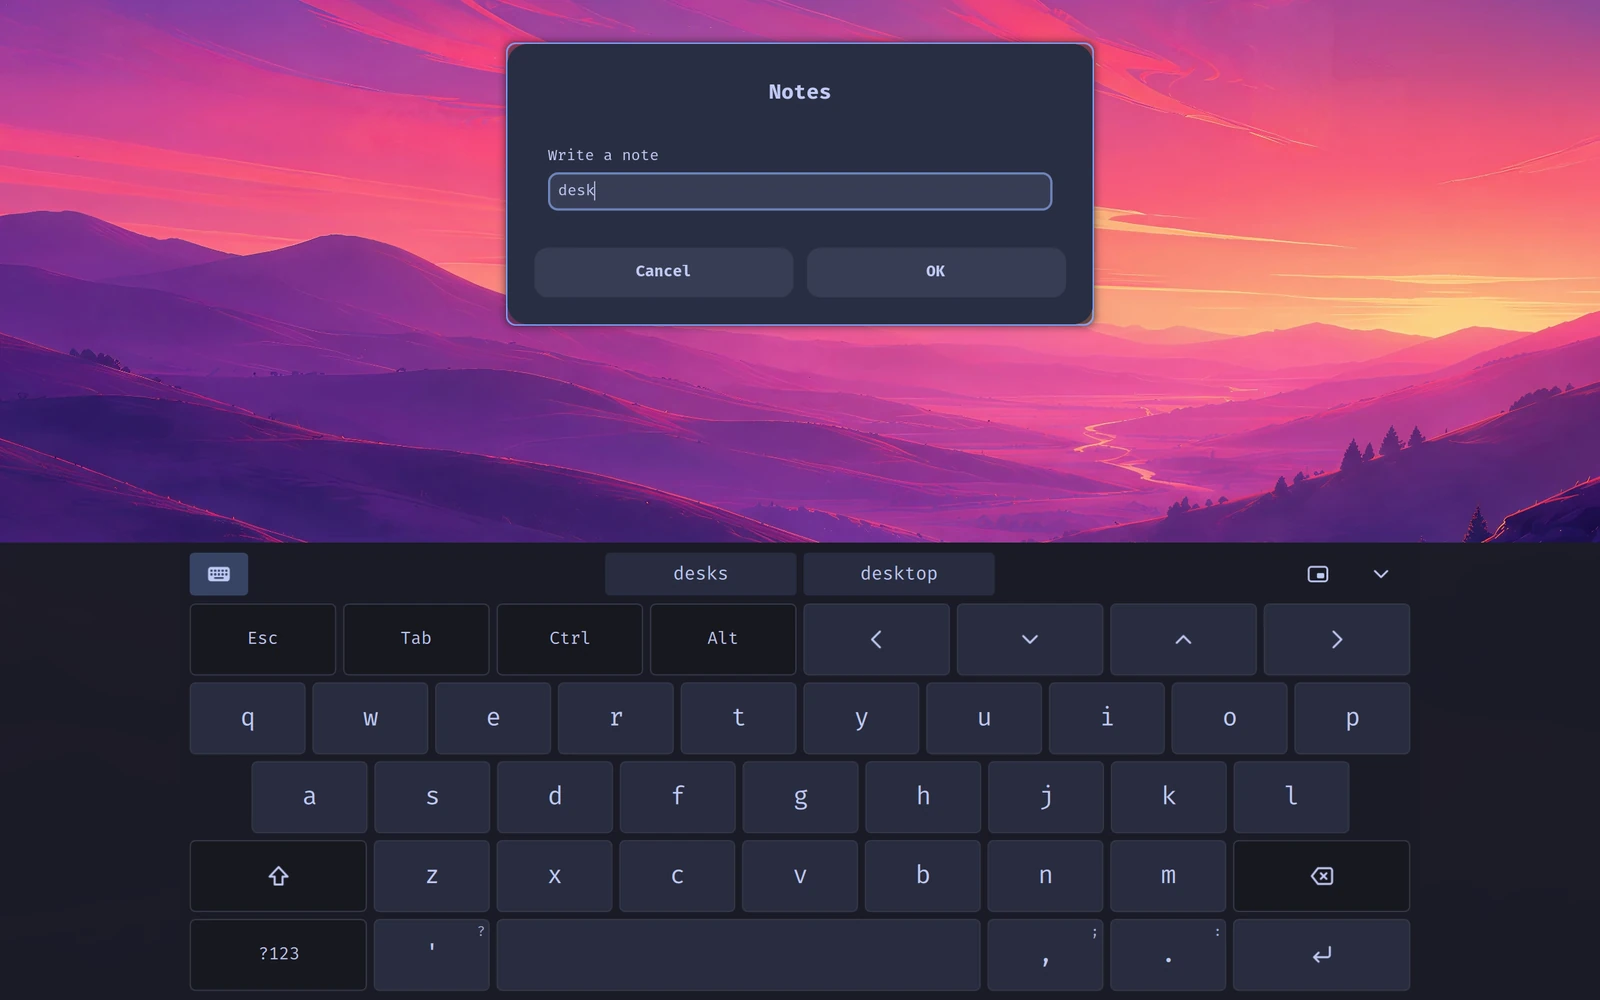
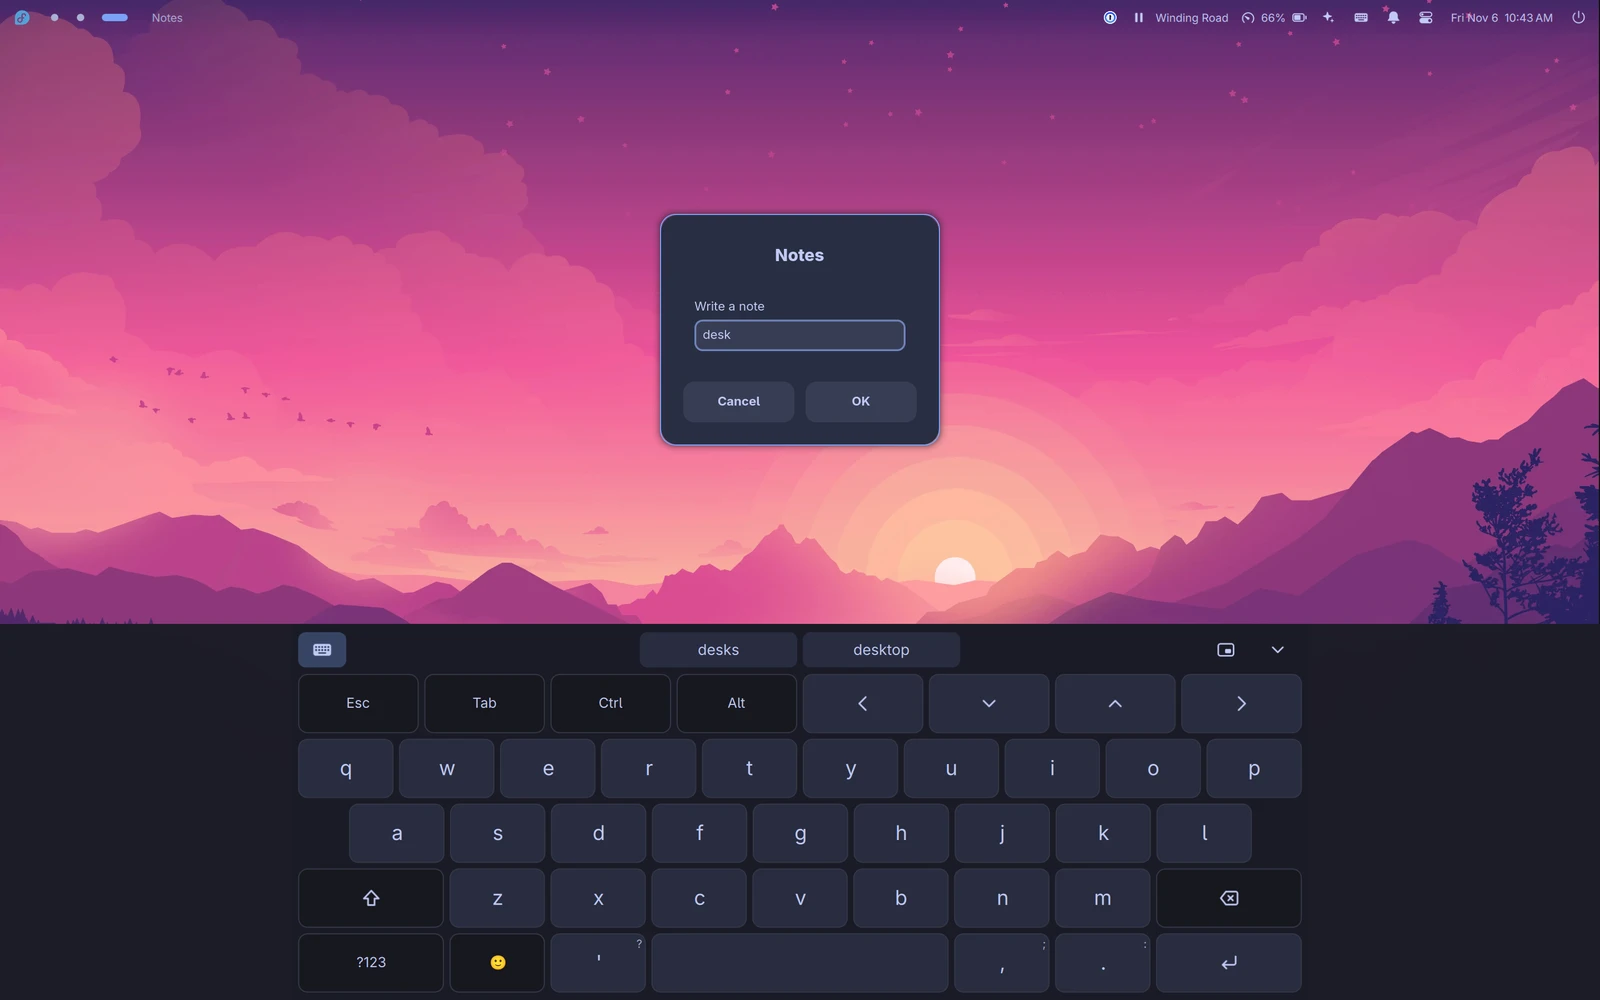
docs: refresh the README and its screenshots
The README now names Arch Linux next to Fedora, with its badge, and covers
what arrived since the last screenshots: eight themes and the KDE Store,
the guided installer and its updates screen, and the newer small features.

Every screenshot was retaken with an English shell and demo content only;
two are new, the KDE Store page and the emoji picker.

diff --git a/README.md b/README.md
@@ -1,12 +1,13 @@
 <h1 align="center">Hyprland + Quickshell</h1>
 
 <p align="center">
-  A complete Fedora desktop for a 2-in-1 laptop: every panel hand-written in Quickshell,<br>
+  A complete Fedora and Arch Linux desktop for a 2-in-1 laptop: every panel hand-written in Quickshell,<br>
   Hyprland configured in Lua, and a tablet mode that actually feels like one.
 </p>
 
 <p align="center">
   <img alt="Fedora 45" src="https://img.shields.io/badge/Fedora-45-51A2DA?logo=fedora&logoColor=white">
+  <img alt="Arch Linux" src="https://img.shields.io/badge/Arch_Linux-rolling-1793D1?logo=archlinux&logoColor=white">
   <img alt="Hyprland 0.57" src="https://img.shields.io/badge/Hyprland-0.57-58E1FF?logo=hyprland&logoColor=white">
   <img alt="Quickshell 0.3" src="https://img.shields.io/badge/Quickshell-0.3-7C6FE0">
   <img alt="MIT license" src="https://img.shields.io/badge/license-MIT-green">
@@ -22,19 +23,22 @@
 - **One shell, no external applets.** Bar, launcher, Control Center, dock, notifications, calendar, clipboard, power menu, Polkit agent and screen-sharing picker are all [Quickshell](https://quickshell.org/) and share one design.
 - **[A real tablet mode](docs/features/tablet-and-touch.md).** Fold the laptop and the shell grows its touch targets, the display follows the sensor, and gestures take over. Gesture touches never reach the app underneath, so a swipe over a video does not pause it.
 - **[An on-screen keyboard written for this desktop](docs/features/on-screen-keyboard.md).** Slide between keys, hit likely letters more easily, tap word suggestions in Italian and English. It learns your words, and nothing you type leaves the machine.
-- **[Themes that reach everything](docs/features/theming.md).** One click changes the shell, terminal, GTK and Qt apps, lock screen, wallpapers, fonts and icons. Five hand-made themes, plus a dynamic one drawn from your wallpaper.
+- **[Themes that reach everything](docs/features/theming.md).** One click changes the shell, terminal, GTK and Qt apps, lock screen, wallpapers, fonts and icons. Eight hand-made themes, liquid Glass and High Contrast among them, plus a dynamic one drawn from your wallpaper, and cursor and icon themes straight from the KDE Store.
 - **[Notifications in decks](docs/features/notifications.md).** Popups stack per app, or per site for browsers, and open on hover or tap.
 - **[Claude Code as part of the desktop](docs/features/ai-assistant.md).** A drop-down console, a state icon in the bar, usage meters and notifications when it needs you.
-- **The small things.** Italian and English everywhere, Steam and gamescope launchers tuned for HiDPI, system updates in the bar, automounted drives, fingerprint unlock.
+- **[A guided installer](docs/guide/installation.md).** Pick profiles, review every change, then apply. The same tool [checks for updates](docs/guide/installation.md#checking-for-updates) later: system packages, pinned plugins and, on Arch, AUR packages; the update icon in the bar opens it.
+- **The small things.** Italian and English everywhere, Alt + Tab, per-app volume, an emoji picker, a color picker and text from the screen, a camera and microphone indicator, Steam and gamescope launchers tuned for HiDPI, automounted drives, fingerprint unlock.
 
 ## Gallery
 
 | | |
 | --- | --- |
 | ![The application launcher](docs/screenshots/launcher.webp) | ![The Control Center](docs/screenshots/control-center.webp) |
-| **Launcher.** Search, icons and keyboard navigation. | **Control Center.** Network, audio, brightness, media and switches. |
-| ![The Theming panel](docs/screenshots/theming.webp) | ![Notifications stacked in decks](docs/screenshots/notifications.webp) |
-| **Theming.** Themes, wallpapers, fonts and icons in one place. | **Notifications.** One deck per app, newest on top. |
+| **Launcher.** Apps as you type, then files, sums and unit conversions. | **Control Center.** Network, audio, brightness, media and switches. |
+| ![The Theming panel](docs/screenshots/theming.webp) | ![Icon themes from the KDE Store in the Theming panel](docs/screenshots/kde-store.webp) |
+| **Theming.** Eight themes, wallpapers, fonts and icons in one place. | **KDE Store.** Cursor and icon themes, searched and installed in place. |
+| ![Notifications stacked in decks](docs/screenshots/notifications.webp) | ![The emoji picker](docs/screenshots/emoji.webp) |
+| **Notifications.** One deck per app, newest on top. | **Emoji.** Search by name or browse by group, and paste into the focused window. |
 | ![The on-screen keyboard with word suggestions](docs/screenshots/keyboard.webp) | ![The Claude Code console](docs/screenshots/console.webp) |
 | **On-screen keyboard.** Suggestions above the keys. | **AI console.** Claude Code dropping down from the bar, ready in this repository. |
 

diff --git a/docs/development/verification-log.md b/docs/development/verification-log.md
@@ -782,3 +782,12 @@ Decided with the user: **Update** in the updates panel opens the updates screen 
 - `check.sh` passes.
 - `desktop-updates run` in a pseudo-terminal: the updates screen drew every source, `q` quit with "Nothing changed.", then "Premi Invio per chiudere." and exit 0 after Enter.
 - Not yet: the button pressed on screen, and an apply from that window.
+
+## README screenshots, 2026-11-06
+
+Retaken on the live session with Tokyo Night and Omarchy's sunset-lake wallpaper, then Gruvbox, its wallpaper (same hyprpaper file as before), the volume and the Italian shell were put back.
+
+- The shell ran in English for the shots: `desktop-shell restart` with `LC_MESSAGES` and `LC_TIME` set to `en_US.UTF-8` (the environment comes before `/etc/locale.conf`).
+- Demo content only: fastfetch titled `demo@omnibook`, notifications from `notify-send`, a stand-in MPRIS player for the media card ("Winding Road"), a zenity note for the keyboard. The Wi-Fi name in the Control Center was painted over as "Home Wi-Fi"; in the console shot, the bar title (Claude Code names the window in the user's language) and a `/clear` line were edited out.
+- Keys and taps came from small clients of the Wayland virtual keyboard (`osk.py run`) and virtual pointer protocols: the keyboard's suggestions (`desks`, `desktop`) appeared from real taps on its keys.
+- Found: `install-tui.py` stops with `locale.Error: unsupported locale setting` when the environment names a locale that is not installed (here `LC_MESSAGES=en_US.UTF-8` on a system with only Italian locales): `locale.setlocale(locale.LC_ALL, '')` at startup.

diff --git a/docs/development/roadmap.md b/docs/development/roadmap.md
@@ -329,4 +329,5 @@ Found during the October 27, 2026 repository review. Checked items were approved
   - [x] The installer as a management TUI (2026-11-05, decided with the user: the repository only as a fast-forward, new pins left for the user to commit): **Check for updates** in `install-tui.py` (`--updates` opens it) lists system packages, Flatpak apps, AUR packages and zsh plugins newer than their pins (zsh-autocomplete follows its release tags, Powerlevel10k its branch), the repository behind its upstream, what the installed profiles still need and the plugin state; the checked lines apply in one sudo run. `install-desktop.py pins` covers the clones too. `desktop-manager` opens it from any terminal (`desktop-manager updates`: the updates screen).
     - [ ] Try it on screen: check, pick, apply a system update and a pin, and a pull on the Arch machine.
     - [x] **Update** in the bar's updates panel opens it (2026-11-06, decided with the user): `desktop-updates upgrade` runs `desktop-manager updates` in its floating terminal instead of dnf (pacman) and Flatpak at once.
+- [x] README refreshed (2026-11-06): Arch Linux badge and subtitle, eight themes and the KDE Store, the guided installer and its updates screen, the newer small features; all screenshots retaken (English shell, demo content) and two new ones, the KDE Store page and the emoji picker.
 - [ ] Debian: a manifest table and a module with the functions of `install/fedora.py`, with names checked on Debian; `authselect` in `tablet-auth.sh` as on Arch.
